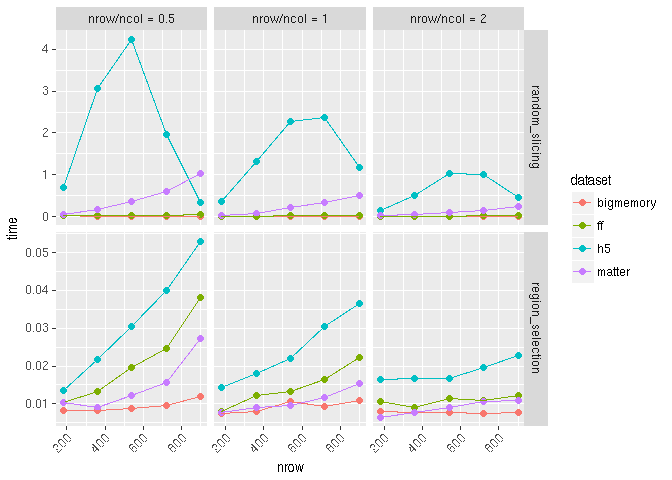
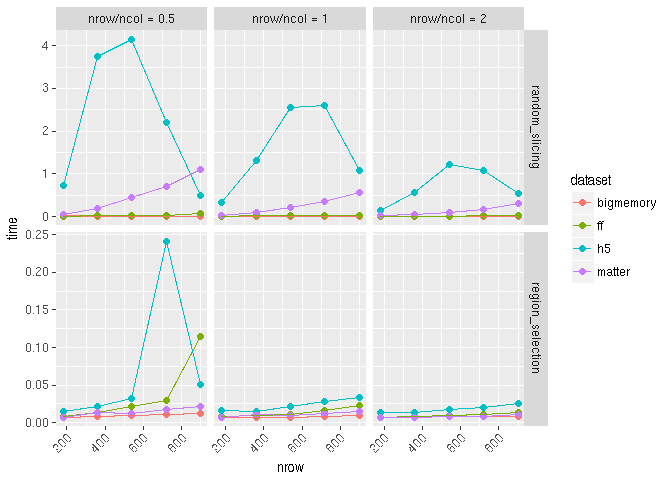
update readme

diff --git a/README.md b/README.md
@@ -99,7 +99,7 @@ lapply(mat.list, object_size)
     ## 2.01 kB
     ## 
     ## $h5
-    ## 1.97 kB
+    ## 1.95 kB
     ## 
     ## $matter
     ## 9.18 kB
@@ -123,12 +123,12 @@ head(res)
 ```
 
     ##     time mem_change   dataset timeid nrow nrow/ncol           task
-    ## 1: 0.025         24 bigmemory      1  180       0.5 random_slicing
-    ## 2: 0.011         28        ff      1  180       0.5 random_slicing
-    ## 3: 0.572          0        h5      1  180       0.5 random_slicing
-    ## 4: 0.054         20    matter      1  180       0.5 random_slicing
-    ## 5: 0.007          0 bigmemory      2  180       0.5 random_slicing
-    ## 6: 0.010          0        ff      2  180       0.5 random_slicing
+    ## 1: 0.036         24 bigmemory      1  180       0.5 random_slicing
+    ## 2: 0.016         28        ff      1  180       0.5 random_slicing
+    ## 3: 0.733          0        h5      1  180       0.5 random_slicing
+    ## 4: 0.059         20    matter      1  180       0.5 random_slicing
+    ## 5: 0.008          0 bigmemory      2  180       0.5 random_slicing
+    ## 6: 0.011          0        ff      2  180       0.5 random_slicing
 
 Resume the long-running task by `cached` results
 ------------------------------------------------
@@ -162,6 +162,16 @@ Run `traversing` benchmark
 mat.list <- list(bigmemory = bm, ff = fm, h5 = hm)
 res <- mbenchmark(mat.list, type = "traversing")
 ```
+
+    ## rowSums
+
+    ## colSums
+
+``` r
+autoplot(res)
+```
+
+![](README_files/figure-markdown_github/unnamed-chunk-9-1.png)
 
 Todo
 ----
